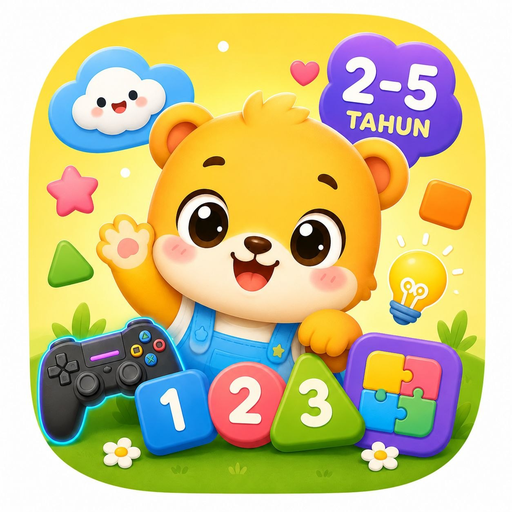
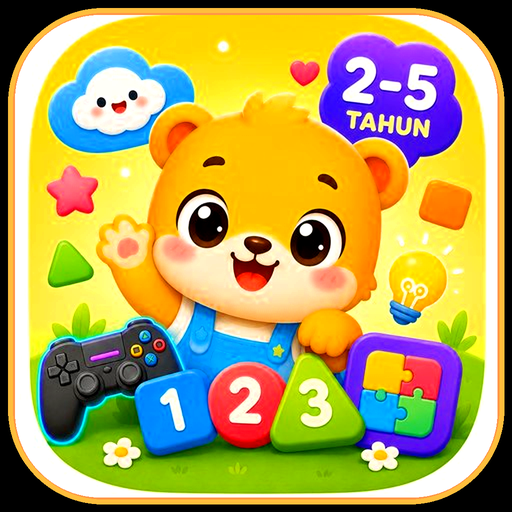
feat: v1.9.2 — ad unit asli terpasang (debug=TEST, release=REAL otomatis)
- Banner & interstitial ID asli AdMob masuk; BuildConfig.DEBUG switch:
  debug tetap TEST ID (aman), release pakai ID asli
- buildConfig=true + manifest placeholder ADMOB_APP_ID (masih TEST app id)

diff --git a/app/src/main/java/com/gyosanila/kartcilik/Ads.kt b/app/src/main/java/com/gyosanila/kartcilik/Ads.kt
@@ -15,9 +15,16 @@ object AppActivityHolder {
     var current: Activity? = null
 }
 
-// ─── TEST IDs (AdMob). Ganti dengan ID asli dari akun AdMob sebelum rilis. ───
-const val AD_UNIT_BANNER = "ca-app-pub-3940256099942544/6300978111"
-const val AD_UNIT_INTERSTITIAL = "ca-app-pub-3940256099942544/1033173712"
+// ─── AdMob: debug pakai TEST ID (aman buat testing), release pakai ID asli. ───
+const val TEST_BANNER = "ca-app-pub-3940256099942544/6300978111"
+const val TEST_INTERSTITIAL = "ca-app-pub-3940256099942544/1033173712"
+const val REAL_BANNER = "ca-app-pub-6023230476562279/9234156447"
+const val REAL_INTERSTITIAL = "ca-app-pub-6023230476562279/1340566000"
+
+val AD_UNIT_BANNER: String
+    get() = if (BuildConfig.DEBUG) TEST_BANNER else REAL_BANNER
+val AD_UNIT_INTERSTITIAL: String
+    get() = if (BuildConfig.DEBUG) TEST_INTERSTITIAL else REAL_INTERSTITIAL
 
 private var interstitial: InterstitialAd? = null
 private var interstitialLoading = CompletableDeferred<Unit>()

diff --git a/scripts/make_icon_v4.py b/scripts/make_icon_v4.py
@@ -1,0 +1,147 @@
+#!/usr/bin/env python3
+"""Ikon Logichild v4 — gaya kartun balita (3-5 th): outline tebal, warna cerah, mata gede."""
+from PIL import Image, ImageDraw
+
+S = 1024
+img = Image.new("RGBA", (S, S), (0, 0, 0, 0))
+d = ImageDraw.Draw(img)
+
+def lerp(a, b, t): return tuple(int(a[i] + (b[i] - a[i]) * t) for i in range(3))
+
+SKIN = (255, 224, 179)
+SKIN_D = (240, 190, 130)
+LINE = (60, 60, 70)          # outline tebal ala kartun
+HAIR = (101, 67, 52)
+EYE = (50, 40, 45)
+WHITE = (255, 255, 255)
+
+def sparkle(x, y, r, fill=(255, 255, 255, 230)):
+    d.rounded_rectangle([x - r, y - r // 3, x + r, y + r // 3], radius=r // 3, fill=fill)
+    d.rounded_rectangle([x - r // 3, y - r, x + r // 3, y + r], radius=r // 3, fill=fill)
+
+# ── Background: gradien cerah + matahari + awan ──
+bg = Image.new("RGBA", (S, S), (0, 0, 0, 0))
+db = ImageDraw.Draw(bg)
+top, mid, bottom = (64, 214, 255), (96, 222, 200), (168, 232, 130)
+for y in range(S):
+    t = y / S
+    col = lerp(top, mid, t * 2) if t < 0.5 else lerp(mid, bottom, t * 2 - 1)
+    db.line([(0, y), (S, y)], fill=col)
+mask = Image.new("L", (S, S), 0)
+dm = ImageDraw.Draw(mask)
+dm.rounded_rectangle([16, 16, S - 16, S - 16], radius=210, fill=255)
+img.paste(bg, (0, 0), mask)
+
+# matahari (pojok kiri atas)
+d.ellipse([70, 70, 260, 260], fill=(255, 219, 77))
+for ang in range(0, 360, 45):
+    import math
+    a = math.radians(ang)
+    x0, y0 = 165 + 105 * math.cos(a), 165 + 105 * math.sin(a)
+    x1, y1 = 165 + 140 * math.cos(a), 165 + 140 * math.sin(a)
+    d.line([x0, y0, x1, y1], fill=(255, 219, 77), width=26)
+d.ellipse([70, 70, 260, 260], fill=(255, 219, 77))
+d.ellipse([110, 105, 150, 145], fill=(255, 255, 255, 120))
+
+def cloud(x, y, s, a):
+    d.ellipse([x, y, x + 90 * s, y + 55 * s], fill=(255, 255, 255, a))
+    d.ellipse([x - 40 * s, y + 18 * s, x + 50 * s, y + 70 * s], fill=(255, 255, 255, a))
+    d.ellipse([x + 55 * s, y + 16 * s, x + 145 * s, y + 68 * s], fill=(255, 255, 255, a))
+cloud(770, 110, 1.0, 60)
+cloud(90, 680, 0.9, 55)
+cloud(700, 640, 0.8, 50)
+
+# glow di belakang karakter
+d.ellipse([180, 190, 844, 800], fill=(255, 255, 255, 40))
+
+cx, cy = 512, 380
+R = 218
+
+def outline_ellipse(box, fill, width=16):
+    d.ellipse(box, fill=fill, outline=LINE, width=width)
+
+# ── Kepala (bulat banget, outline tebal) ──
+outline_ellipse([cx - R, cy - R, cx + R, cy + R], SKIN, 18)
+# telinga
+outline_ellipse([cx - R - 26, cy - 66, cx - R + 46, cy + 40], SKIN, 14)
+outline_ellipse([cx + R - 46, cy - 66, cx + R + 26, cy + 40], SKIN, 14)
+# rambut (topi rambut + jambul)
+d.pieslice([cx - R, cy - R - 4, cx + R, cy + R], 180, 360, fill=HAIR, outline=LINE, width=16)
+d.ellipse([cx - 30, cy - R - 34, cx + 30, cy - R + 28], fill=HAIR, outline=LINE, width=12)
+
+# ── Mata gede ala balita: putih + pupil gede + kilau ──
+for ex in (cx - 88, cx + 88):
+    outline_ellipse([ex - 58, cy + 8, ex + 58, cy + 128], WHITE, 12)
+    d.ellipse([ex - 34, cy + 36, ex + 34, cy + 104], fill=EYE)
+    d.ellipse([ex - 20, cy + 50, ex + 4, cy + 74], fill=WHITE)
+    d.ellipse([ex + 16, cy + 78, ex + 26, cy + 88], fill=(255, 255, 255, 200))
+# alis
+d.arc([cx - 168, cy - 14, cx - 30, cy + 30], 200, 340, fill=LINE, width=16)
+d.arc([cx + 30, cy - 14, cx + 168, cy + 30], 200, 340, fill=LINE, width=16)
+# pipi
+d.ellipse([cx - 216, cy + 108, cx - 104, cy + 216], fill=(255, 138, 150, 200))
+d.ellipse([cx + 104, cy + 108, cx + 216, cy + 216], fill=(255, 138, 150, 200))
+# hidung kecil
+d.ellipse([cx - 12, cy + 132, cx + 12, cy + 152], fill=SKIN_D)
+# mulut lebar + gigi + lidah
+d.pieslice([cx - 70, cy + 130, cx + 70, cy + 250], 20, 160, fill=(150, 60, 60), outline=LINE, width=12)
+d.rectangle([cx - 52, cy + 138, cx + 52, cy + 168], fill=WHITE)
+d.rectangle([cx - 52, cy + 138, cx - 4, cy + 168], outline=LINE, width=6)
+d.rectangle([cx + 4, cy + 138, cx + 52, cy + 168], outline=LINE, width=6)
+d.ellipse([cx - 34, cy + 196, cx + 34, cy + 246], fill=(255, 130, 120))
+
+# ── Badan + popok ──
+d.rounded_rectangle([392, 574, 632, 706], radius=52, fill=SKIN, outline=LINE, width=14)
+d.rounded_rectangle([366, 616, 658, 802], radius=78, fill=WHITE, outline=LINE, width=14)
+d.rounded_rectangle([390, 658, 634, 796], radius=60, fill=(120, 205, 245))
+d.rounded_rectangle([412, 686, 612, 776], radius=46, fill=WHITE)
+for px in range(448, 596, 40):
+    for py in (702, 742):
+        d.ellipse([px - 9, py - 9, px + 9, py + 9], fill=(90, 180, 230))
+# kaki chubby + sepatu kaus
+outline_ellipse([412, 766, 512, 878], SKIN, 12)
+outline_ellipse([512, 766, 612, 878], SKIN, 12)
+d.rounded_rectangle([418, 792, 506, 872], radius=30, fill=(255, 214, 79), outline=LINE, width=10)
+d.rounded_rectangle([518, 792, 606, 872], radius=30, fill=(255, 214, 79), outline=LINE, width=10)
+d.rounded_rectangle([418, 828, 506, 848], radius=10, fill=WHITE)
+d.rounded_rectangle([518, 828, 606, 848], radius=10, fill=WHITE)
+
+# ── Lengan pegang gamepad ──
+d.line([424, 636, 322, 712], fill=SKIN, width=56)
+d.line([600, 636, 702, 712], fill=SKIN, width=56)
+outline_ellipse([286, 678, 358, 750], SKIN, 10)
+outline_ellipse([666, 678, 738, 750], SKIN, 10)
+
+# ── Gamepad chunky warna-warni ──
+d.rounded_rectangle([306, 700, 718, 858], radius=80, fill=(244, 96, 84), outline=LINE, width=16)
+d.rounded_rectangle([306, 700, 718, 790], radius=80, fill=(252, 122, 100))
+d.rounded_rectangle([292, 740, 366, 884], radius=48, fill=(244, 96, 84), outline=LINE, width=12)
+d.rounded_rectangle([658, 740, 732, 884], radius=48, fill=(244, 96, 84), outline=LINE, width=12)
+# d-pad abu
+d.rounded_rectangle([376, 756, 430, 826], radius=16, fill=(120, 130, 145), outline=LINE, width=10)
+d.rounded_rectangle([352, 780, 454, 802], radius=16, fill=(120, 130, 145), outline=LINE, width=10)
+# tombol tengah
+d.ellipse([498, 760, 552, 814], fill=(255, 255, 255), outline=LINE, width=10)
+d.ellipse([486, 786, 564, 826], fill=(120, 200, 255), outline=LINE, width=8)
+# 4 tombol warna + kilau
+bx, byy = 606, 790
+d.ellipse([bx - 32, byy - 32, bx + 32, byy + 32], fill=(255, 235, 59), outline=LINE, width=10)
+d.ellipse([bx - 70, byy - 8, bx - 8, byy + 56], fill=(255, 92, 92), outline=LINE, width=10)
+d.ellipse([bx + 8, byy - 8, bx + 70, byy + 56], fill=(64, 190, 120), outline=LINE, width=10)
+d.ellipse([bx - 32, byy + 30, bx + 32, byy + 94], fill=(80, 160, 255), outline=LINE, width=10)
+for off in ((-22, -22, -6, -6), (-56, -2, -40, 14), (22, -2, 38, 14), (-22, 40, -6, 56)):
+    d.ellipse([bx + off[0], byy + off[1], bx + off[2], byy + off[3]], fill=(255, 255, 255, 130))
+# highlight badan gamepad
+d.rounded_rectangle([336, 716, 480, 756], radius=18, fill=(255, 255, 255, 90))
+
+# ── Sparkle ──
+sparkle(230, 300, 26)
+sparkle(810, 240, 30)
+sparkle(150, 520, 20)
+sparkle(870, 470, 22)
+sparkle(512, 70, 18)
+
+out = "/home/ilga/KartCilik/icon_preview.png"
+img.save(out)
+img.resize((512, 512), Image.LANCZOS).save("/home/ilga/KartCilik/icon_preview_512.png")
+print("saved", out)

diff --git a/scripts/improve_icon.py b/scripts/improve_icon.py
@@ -1,0 +1,77 @@
+#!/usr/bin/env python3
+"""Improve icon ChatGPT → gaya 3-5 tahun: warna lebih hidup, frame kartun, decal lucu."""
+from PIL import Image, ImageDraw, ImageEnhance
+import colorsys
+
+SRC = "/home/ilga/.hermes/cache/images/img_bc82c0c467ae.jpg"
+OUT = "/home/ilga/KartCilik/icon_preview_512.png"
+OUT_FULL = "/home/ilga/KartCilik/icon_preview.png"
+
+im = Image.open(SRC).convert("RGB")
+S = 1024
+im = im.resize((S, S), Image.LANCZOS)
+
+# ── 1. Warna lebih hidup (saturasi) + cerah + kontras + tajam ──
+pix = im.load()
+for y in range(S):
+    for x in range(S):
+        r, g, b = pix[x, y][:3]
+        h, s, v = colorsys.rgb_to_hsv(r / 255, g / 255, b / 255)
+        s = min(1.0, s * 1.28)
+        v = min(1.0, v * 1.10)
+        r, g, b = colorsys.hsv_to_rgb(h, s, v)
+        pix[x, y] = (int(r * 255), int(g * 255), int(b * 255))
+
+im = ImageEnhance.Contrast(im).enhance(1.12)
+im = ImageEnhance.Sharpness(im).enhance(1.35)
+
+# ── 2. Frame kartun: stroke putih tebal + border warna cerah ──
+canvas = Image.new("RGBA", (S, S), (0, 0, 0, 0))
+d = ImageDraw.Draw(canvas)
+# stroke putih tebal (efek sticker)
+mask = Image.new("L", (S, S), 0)
+dm = ImageDraw.Draw(mask)
+dm.rounded_rectangle([30, 30, S - 30, S - 30], radius=170, fill=255)
+canvas.paste(im, (0, 0), mask)
+# border luar warna cerah (kuning-oranye gradient sederhana)
+outline = Image.new("RGBA", (S, S), (0, 0, 0, 0))
+do = ImageDraw.Draw(outline)
+for i, col in enumerate([(255, 190, 60), (255, 150, 70), (90, 200, 120)]):
+    w = 34 - i * 8
+    do.rounded_rectangle([16 + i * 10, 16 + i * 10, S - 16 - i * 10, S - 16 - i * 10],
+                         radius=190 - i * 10, outline=col, width=w)
+canvas = Image.alpha_composite(outline, canvas)
+
+# ── 3. Decal lucu: matahari, sparkle, awan di pojok ──
+def sparkle(d, x, y, r, fill=(255, 255, 255, 235)):
+    d.rounded_rectangle([x - r, y - r // 3, x + r, y + r // 3], radius=r // 3, fill=fill)
+    d.rounded_rectangle([x - r // 3, y - r, x + r // 3, y + r], radius=r // 3, fill=fill)
+
+def cloud(d, x, y, s, a):
+    d.ellipse([x, y, x + 90 * s, y + 55 * s], fill=(255, 255, 255, a))
+    d.ellipse([x - 40 * s, y + 18 * s, x + 50 * s, y + 70 * s], fill=(255, 255, 255, a))
+    d.ellipse([x + 55 * s, y + 16 * s, x + 145 * s, y + 68 * s], fill=(255, 255, 255, a))
+
+# matahari kecil di pojok kiri atas
+d.ellipse([120, 120, 220, 220], fill=(255, 214, 64))
+for ang in range(0, 360, 45):
+    import math
+    a = math.radians(ang)
+    x0, y0 = 170 + 58 * math.cos(a), 170 + 58 * math.sin(a)
+    x1, y1 = 170 + 82 * math.cos(a), 170 + 82 * math.sin(a)
+    d.line([x0, y0, x1, y1], fill=(255, 214, 64), width=18)
+d.ellipse([120, 120, 220, 220], fill=(255, 214, 64))
+d.ellipse([146, 146, 168, 168], fill=(255, 255, 255, 140))
+# awan putih di pojok kanan atas & kiri bawah
+cloud(d, 760, 110, 0.9, 80)
+cloud(d, 60, 720, 0.8, 75)
+# sparkle
+sparkle(d, 780, 660, 30)
+sparkle(d, 250, 660, 24)
+sparkle(d, 880, 420, 20)
+sparkle(d, 150, 430, 18)
+
+img_out = canvas.convert("RGB")
+img_out.save(OUT_FULL)
+img_out.resize((512, 512), Image.LANCZOS).save(OUT)
+print("saved", OUT)
